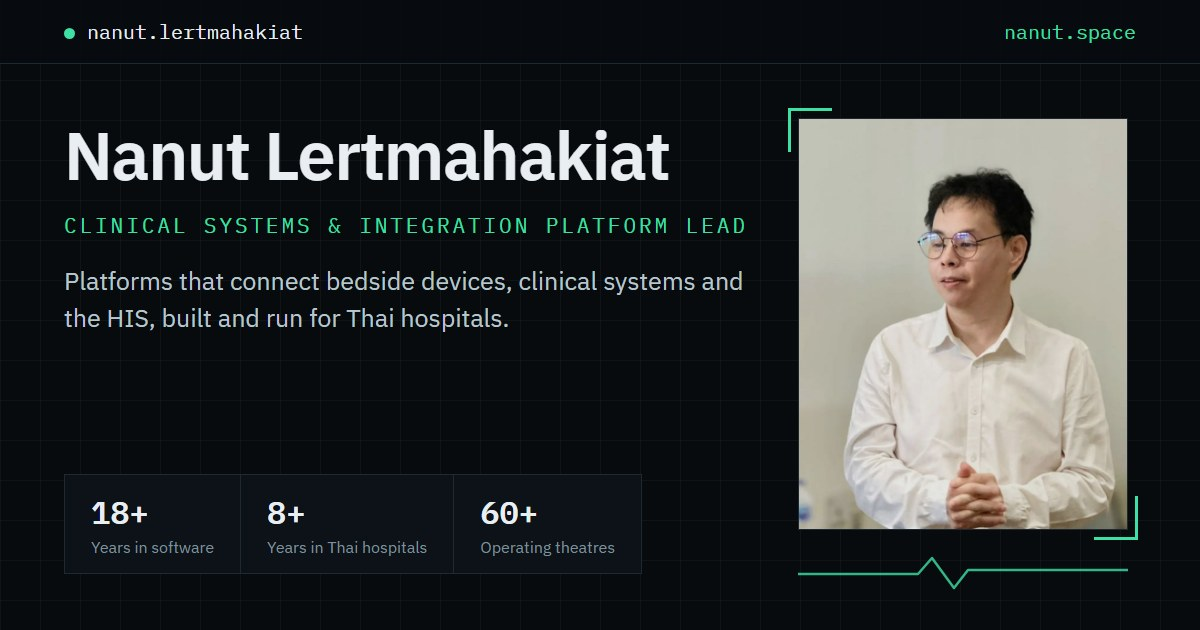
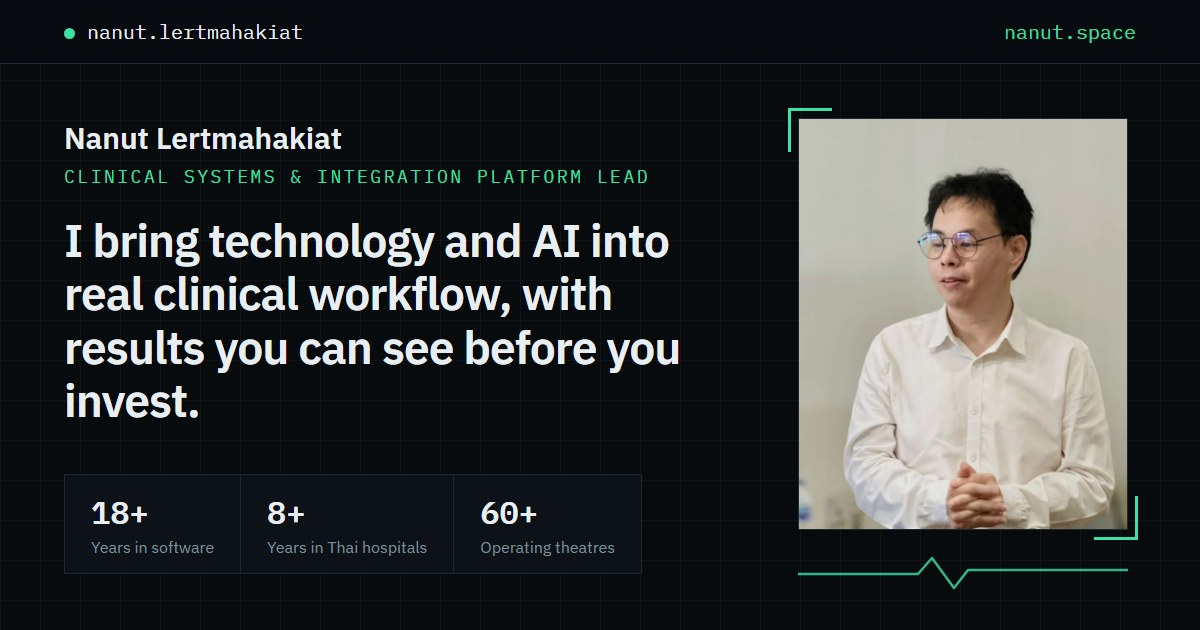
Match the social preview image and text to the new hero line

Changed region(s): [[0.0308, 0.3317, 0.6167, 0.6635], [0.0308, 0.2111, 0.555, 0.3016], [0.5858, 0.3317, 0.6167, 0.3619]]

diff --git a/index.html b/index.html
@@ -11,7 +11,7 @@
     <meta property="og:title" content="Nanut Lertmahakiat | Clinical Systems & Integration Platform Lead" />
     <meta
       property="og:description"
-      content="Platforms that connect bedside devices, clinical systems and the HIS, built and run for Thai hospitals."
+      content="I bring technology and AI into real clinical workflow, with results you can see before you invest."
     />
     <meta property="og:type" content="website" />
     <meta property="og:url" content="https://www.nanut.space/" />
